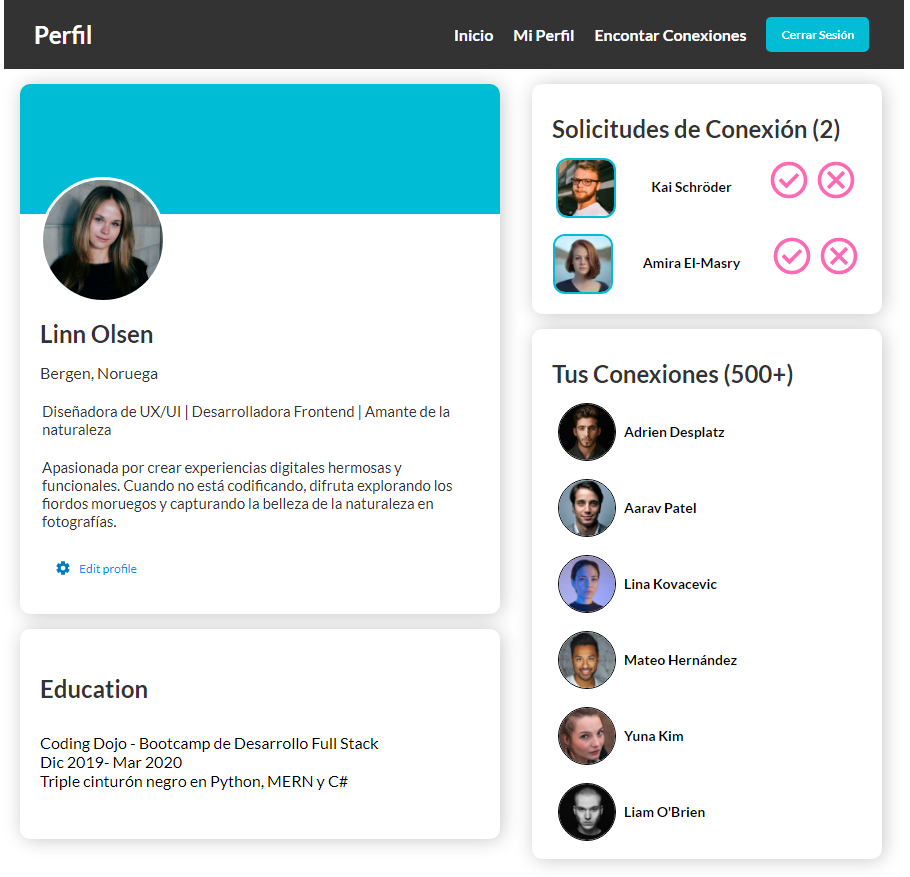
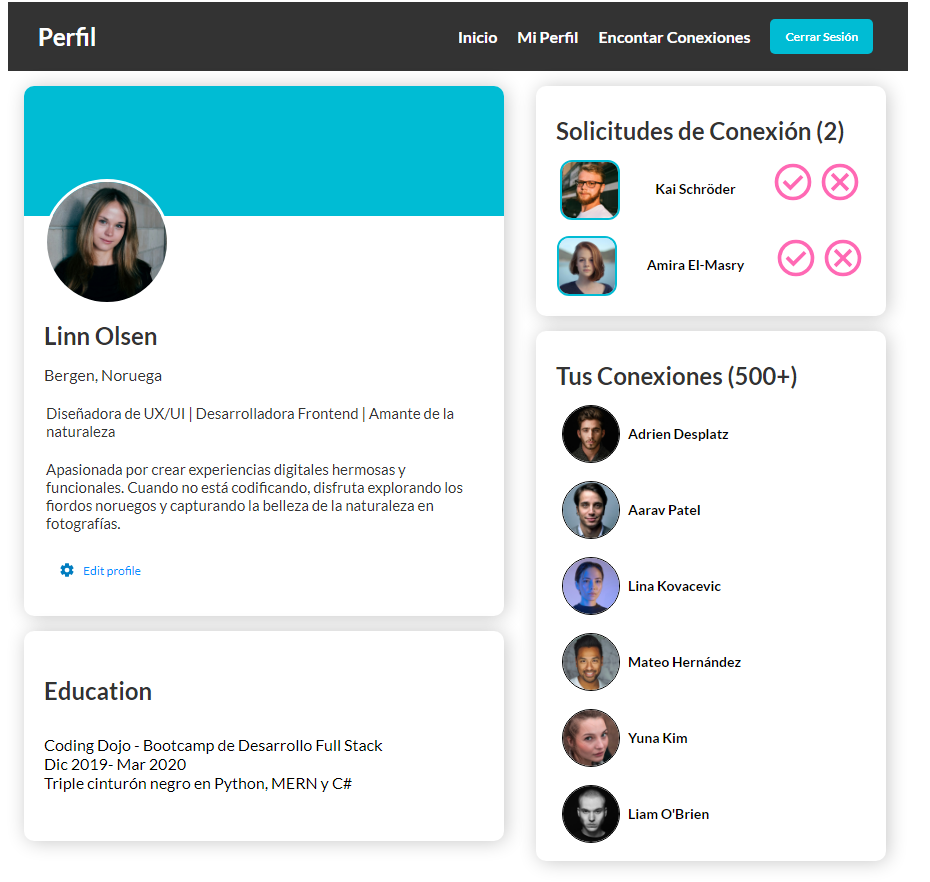
avance

diff --git a/index.html b/index.html
@@ -32,7 +32,7 @@
                         <h1>Linn Olsen</h1>
                         <h4>Bergen, Noruega</h4>
                         <p>Diseñadora de UX/UI | Desarrolladora Frontend | Amante de la naturaleza</p>
-                        <p>Apasionada por crear experiencias digitales hermosas y funcionales. Cuando no está codificando, difruta explorando los fiordos moruegos y capturando la belleza de la naturaleza en fotografías.</p>
+                        <p>Apasionada por crear experiencias digitales hermosas y funcionales. Cuando no está codificando, disfruta explorando los fiordos noruegos y capturando la belleza de la naturaleza en fotografías. </p>
                         
                         <a href="#" class="icono"><img src="./assets/icons/settings.svg" alt="setting">Edit profile</a>
                         
